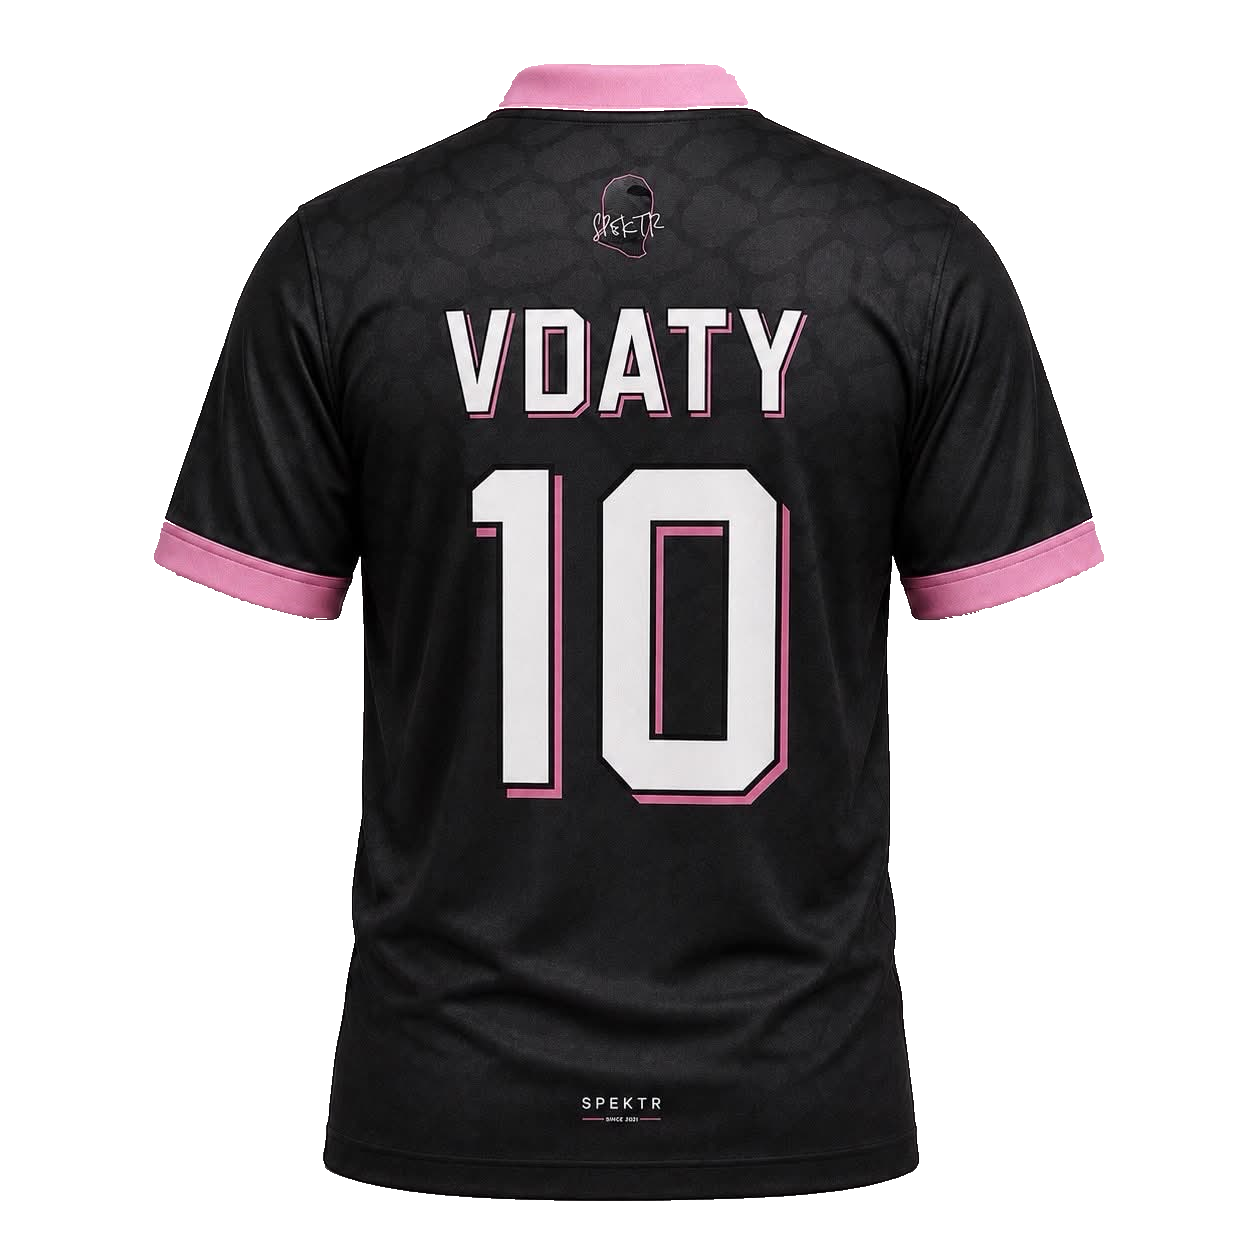
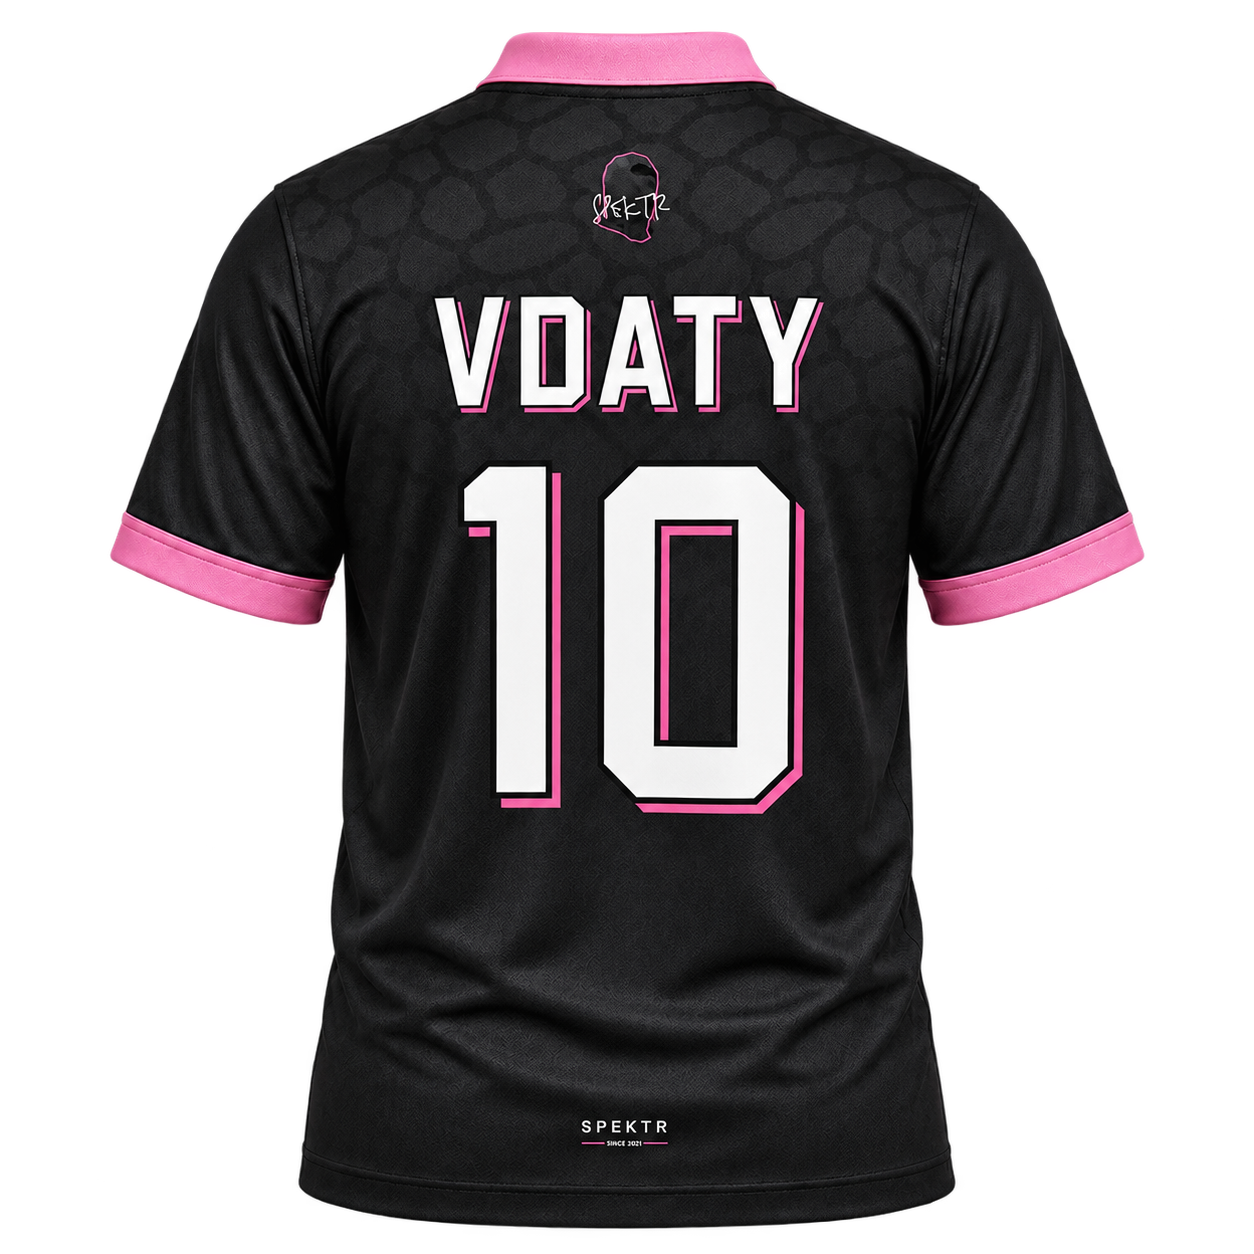
Use supplied jersey front and back artwork

Changed region(s): [[0.0933, 0.0, 0.933, 0.9952], [0.2799, 0.2177, 0.311, 0.2488]]

diff --git a/shop.html b/shop.html
@@ -27,8 +27,8 @@
         <div class="jersey-campaign-art" aria-label="Le nouveau maillot Spektr 2027 présenté par deux joueurs, de face et de dos">
           <img class="campaign-player campaign-player-man" src="assets/jersey-campaign-player-man.png" alt="Joueur portant le maillot Spektr 2027">
           <img class="campaign-player campaign-player-woman" src="assets/jersey-campaign-player-woman.png" alt="Joueuse portant le maillot Spektr 2027">
-          <img class="campaign-shirt campaign-shirt-back" src="assets/product-mw4-reveal-back.png" alt="Dos du maillot Spektr 2027">
-          <img class="campaign-shirt campaign-shirt-front" src="assets/product-mw4-reveal-front.png?v=collar2" alt="Face du maillot Spektr 2027">
+          <img class="campaign-shirt campaign-shirt-back" src="assets/product-mw4-reveal-back.png?v=source3" alt="Dos du maillot Spektr 2027">
+          <img class="campaign-shirt campaign-shirt-front" src="assets/product-mw4-reveal-front.png?v=source3" alt="Face du maillot Spektr 2027">
         </div>
         <div class="jersey-campaign-copy">
           <p class="eyebrow">Spektr 2027</p>
@@ -48,8 +48,8 @@
           <article class="orchid-product-card main-product">
             <a href="https://www.kapoli.fr/boutiquedesclubs/SPEKTR-c189557520" target="_blank" rel="noreferrer">
               <div class="product-duo" aria-label="Maillot 2027 MW4 face et dos">
-                <img src="assets/product-mw4-reveal-front.png?v=collar2" alt="Maillot 2027 MW4 face">
-                <img src="assets/product-mw4-reveal-back.png" alt="Maillot 2027 MW4 dos">
+                <img src="assets/product-mw4-reveal-front.png?v=source3" alt="Maillot 2027 MW4 face">
+                <img src="assets/product-mw4-reveal-back.png?v=source3" alt="Maillot 2027 MW4 dos">
               </div>
               <h3>MAILLOT 2027 MW4</h3>
             </a>
